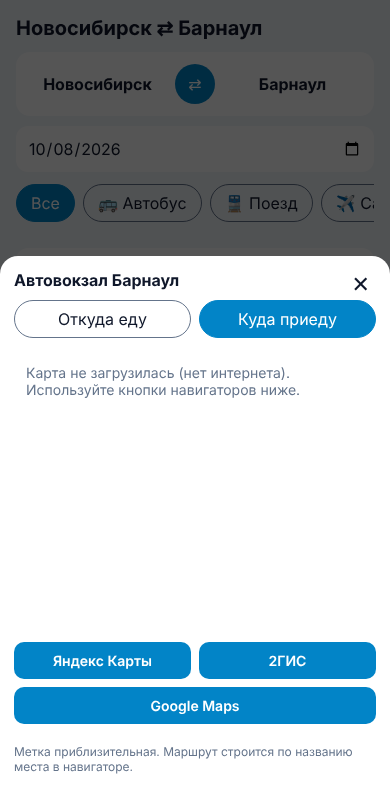
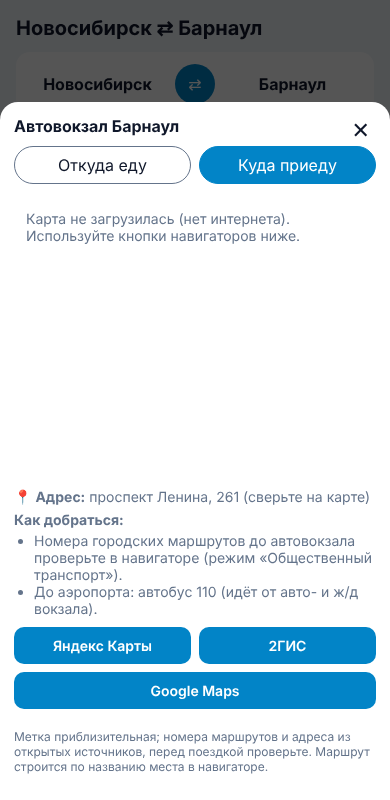
Add station addresses and how-to-get-there info
Claude-Session: https://claude.ai/code/session_01G9pZAVZfw48ruNeXWrn9Gy

diff --git a/app/standalone.html b/app/standalone.html
@@ -42,7 +42,7 @@ input[type=date],select{width:100%;margin-top:10px;padding:12px;border-radius:12
 </main>
 <div id="modal"><div id="sheet"><button class="x" id="close" aria-label="Закрыть">✕</button><b id="mt"></b>
 <div class="sw" style="margin-top:10px"><button class="chip on" id="pa">Откуда еду</button><button class="chip" id="pb">Куда приеду</button></div>
-<div id="map"></div><div class="nav" id="nav"></div><p class="note" id="mn">Метка приблизительная. Маршрут строится по названию места в навигаторе.</p></div></div>
+<div id="map"></div><div id="info" class="mut" style="margin:0 0 10px"></div><div class="nav" id="nav"></div><p class="note" id="mn">Метка приблизительная; номера маршрутов и адреса из открытых источников, перед поездкой проверьте. Маршрут строится по названию места в навигаторе.</p></div></div>
 <script src="https://cdnjs.cloudflare.com/ajax/libs/leaflet/1.9.4/leaflet.min.js"></script>
 <script>// ПРИМЕРНЫЕ данные расписания (прототип). Время, цены и остановки нужно заменить реальными.
 // dir: "nsk-brn" = Новосибирск → Барнаул, "brn-nsk" = обратно.
@@ -84,14 +84,14 @@ window.BUY = {
 
 // Места посадки/высадки: координаты ПРИБЛИЗИТЕЛЬНЫЕ (для метки на карте), поиск маршрута идёт по названию.
 window.PLACES = {
-  bus:  {nsk:{name:"Автовокзал «Новосибирск-Главный»",q:"Автовокзал Новосибирск-Главный",ll:[55.0415,82.9080]},
-         brn:{name:"Автовокзал Барнаул",q:"Автовокзал Барнаул",ll:[53.3405,83.7745]}},
-  train:{nsk:{name:"Вокзал Новосибирск-Главный",q:"Железнодорожный вокзал Новосибирск-Главный",ll:[55.0410,82.9053]},
-         brn:{name:"Ж/д вокзал Барнаул",q:"Железнодорожный вокзал Барнаул",ll:[53.3378,83.7864]}},
-  plane:{nsk:{name:"Аэропорт Толмачёво (OVB)",q:"Аэропорт Толмачёво",ll:[55.0126,82.6507]},
-         brn:{name:"Аэропорт Барнаул им. Г. Титова (BAX)",q:"Аэропорт Барнаул",ll:[53.3638,83.5385]}},
-  ride: {nsk:{name:"Центр Новосибирска (точное место — с водителем)",q:"Новосибирск центр",ll:[55.0302,82.9204]},
-         brn:{name:"Центр Барнаула (точное место — с водителем)",q:"Барнаул центр",ll:[53.3474,83.7784]}}
+  bus:  {nsk:{name:"Автовокзал «Новосибирск-Главный»",addr:"Красный проспект, 4 (адрес по справочнику, сверьте на карте)",how:["Рядом с ж/д вокзалом Новосибирск-Главный.", "До аэропорта Толмачёво: автобус 111Э, в пути около часа."],q:"Автовокзал Новосибирск-Главный",ll:[55.0415,82.9080]},
+         brn:{name:"Автовокзал Барнаул",addr:"проспект Ленина, 261 (сверьте на карте)",how:["Номера городских маршрутов до автовокзала проверьте в навигаторе (режим «Общественный транспорт»).", "До аэропорта: автобус 110 (идёт от авто- и ж/д вокзала)."],q:"Автовокзал Барнаул",ll:[53.3405,83.7745]}},
+  train:{nsk:{name:"Вокзал Новосибирск-Главный",addr:"ул. Дмитрия Шамшурина, 43",how:["До аэропорта Толмачёво: автобус 111Э (40–50 мин), маршрутка 312 или электричка до станции Обь + бесплатный трансфер."],q:"Железнодорожный вокзал Новосибирск-Главный",ll:[55.0410,82.9053]},
+         brn:{name:"Ж/д вокзал Барнаул",addr:"район пл. Победы / Привокзальной ул. (точный адрес сверьте на карте)",how:["Номера городских маршрутов проверьте в навигаторе (режим «Общественный транспорт»).", "До аэропорта: автобус 110."],q:"Железнодорожный вокзал Барнаул",ll:[53.3378,83.7864]}},
+  plane:{nsk:{name:"Аэропорт Толмачёво (OVB)",addr:"Новосибирск, Толмачёво, ~20 км к западу от центра",how:["В город: автобус 111Э до автовокзала и ж/д вокзала, маршрутка 312, автобус 112 от «Меги», электричка до ст. Обь + трансфер.", "В пути 40–60 мин, в пробки дольше. Справочная: 216-99-99."],q:"Аэропорт Толмачёво",ll:[55.0126,82.6507]},
+         brn:{name:"Аэропорт Барнаул им. Г. Титова (BAX)",addr:"~17 км к западу от центра Барнаула",how:["В город: автобус 110 (до автовокзала и ж/д вокзала) или маршрутка 144.", "Остановка у выхода из терминала."],q:"Аэропорт Барнаул",ll:[53.3638,83.5385]}},
+  ride: {nsk:{name:"Центр Новосибирска (точное место — с водителем)",addr:"Точное место встречи согласуйте с водителем",how:[],q:"Новосибирск центр",ll:[55.0302,82.9204]},
+         brn:{name:"Центр Барнаула (точное место — с водителем)",addr:"Точное место встречи согласуйте с водителем",how:[],q:"Барнаул центр",ll:[53.3474,83.7784]}}
 };
 </script>
 <script>
@@ -121,6 +121,7 @@ function showPlace(end){
   const pl=place(cur,end);$("pa").classList.toggle("on",!end);$("pb").classList.toggle("on",end);
   $("mt").textContent=pl.name;const q=encodeURIComponent(pl.q+(pl.q.includes("Новосиб")||pl.q.includes("Барнаул")?"":""));
   $("nav").innerHTML=`<a target="_blank" rel="noopener" href="https://yandex.ru/maps/?mode=routes&rtt=auto&rtext=~${q}">Яндекс Карты</a><a target="_blank" rel="noopener" href="https://2gis.ru/search/${q}">2ГИС</a><a target="_blank" rel="noopener" href="https://www.google.com/maps/dir/?api=1&destination=${q}">Google Maps</a>`;
+  $("info").innerHTML=`<div>📍 <b>Адрес:</b> ${pl.addr}</div>`+(pl.how.length?`<div style="margin-top:6px"><b>Как добраться:</b></div><ul style="margin:4px 0 0;padding-left:20px">${pl.how.map(x=>`<li>${x}</li>`).join("")}</ul>`:"");
   if(window.L){
     if(!map){map=L.map("map");L.tileLayer("https://tile.openstreetmap.org/{z}/{x}/{y}.png",{maxZoom:19,attribution:"© OpenStreetMap"}).addTo(map)}
     if(marker)marker.remove();marker=L.marker(pl.ll).addTo(map).bindPopup(pl.name).openPopup();map.setView(pl.ll,15);setTimeout(()=>map.invalidateSize(),50);

diff --git a/app/data.js b/app/data.js
@@ -38,12 +38,12 @@ window.BUY = {
 
 // Места посадки/высадки: координаты ПРИБЛИЗИТЕЛЬНЫЕ (для метки на карте), поиск маршрута идёт по названию.
 window.PLACES = {
-  bus:  {nsk:{name:"Автовокзал «Новосибирск-Главный»",q:"Автовокзал Новосибирск-Главный",ll:[55.0415,82.9080]},
-         brn:{name:"Автовокзал Барнаул",q:"Автовокзал Барнаул",ll:[53.3405,83.7745]}},
-  train:{nsk:{name:"Вокзал Новосибирск-Главный",q:"Железнодорожный вокзал Новосибирск-Главный",ll:[55.0410,82.9053]},
-         brn:{name:"Ж/д вокзал Барнаул",q:"Железнодорожный вокзал Барнаул",ll:[53.3378,83.7864]}},
-  plane:{nsk:{name:"Аэропорт Толмачёво (OVB)",q:"Аэропорт Толмачёво",ll:[55.0126,82.6507]},
-         brn:{name:"Аэропорт Барнаул им. Г. Титова (BAX)",q:"Аэропорт Барнаул",ll:[53.3638,83.5385]}},
-  ride: {nsk:{name:"Центр Новосибирска (точное место — с водителем)",q:"Новосибирск центр",ll:[55.0302,82.9204]},
-         brn:{name:"Центр Барнаула (точное место — с водителем)",q:"Барнаул центр",ll:[53.3474,83.7784]}}
+  bus:  {nsk:{name:"Автовокзал «Новосибирск-Главный»",addr:"Красный проспект, 4 (адрес по справочнику, сверьте на карте)",how:["Рядом с ж/д вокзалом Новосибирск-Главный.", "До аэропорта Толмачёво: автобус 111Э, в пути около часа."],q:"Автовокзал Новосибирск-Главный",ll:[55.0415,82.9080]},
+         brn:{name:"Автовокзал Барнаул",addr:"проспект Ленина, 261 (сверьте на карте)",how:["Номера городских маршрутов до автовокзала проверьте в навигаторе (режим «Общественный транспорт»).", "До аэропорта: автобус 110 (идёт от авто- и ж/д вокзала)."],q:"Автовокзал Барнаул",ll:[53.3405,83.7745]}},
+  train:{nsk:{name:"Вокзал Новосибирск-Главный",addr:"ул. Дмитрия Шамшурина, 43",how:["До аэропорта Толмачёво: автобус 111Э (40–50 мин), маршрутка 312 или электричка до станции Обь + бесплатный трансфер."],q:"Железнодорожный вокзал Новосибирск-Главный",ll:[55.0410,82.9053]},
+         brn:{name:"Ж/д вокзал Барнаул",addr:"район пл. Победы / Привокзальной ул. (точный адрес сверьте на карте)",how:["Номера городских маршрутов проверьте в навигаторе (режим «Общественный транспорт»).", "До аэропорта: автобус 110."],q:"Железнодорожный вокзал Барнаул",ll:[53.3378,83.7864]}},
+  plane:{nsk:{name:"Аэропорт Толмачёво (OVB)",addr:"Новосибирск, Толмачёво, ~20 км к западу от центра",how:["В город: автобус 111Э до автовокзала и ж/д вокзала, маршрутка 312, автобус 112 от «Меги», электричка до ст. Обь + трансфер.", "В пути 40–60 мин, в пробки дольше. Справочная: 216-99-99."],q:"Аэропорт Толмачёво",ll:[55.0126,82.6507]},
+         brn:{name:"Аэропорт Барнаул им. Г. Титова (BAX)",addr:"~17 км к западу от центра Барнаула",how:["В город: автобус 110 (до автовокзала и ж/д вокзала) или маршрутка 144.", "Остановка у выхода из терминала."],q:"Аэропорт Барнаул",ll:[53.3638,83.5385]}},
+  ride: {nsk:{name:"Центр Новосибирска (точное место — с водителем)",addr:"Точное место встречи согласуйте с водителем",how:[],q:"Новосибирск центр",ll:[55.0302,82.9204]},
+         brn:{name:"Центр Барнаула (точное место — с водителем)",addr:"Точное место встречи согласуйте с водителем",how:[],q:"Барнаул центр",ll:[53.3474,83.7784]}}
 };

diff --git a/app/index.html b/app/index.html
@@ -42,7 +42,7 @@ input[type=date],select{width:100%;margin-top:10px;padding:12px;border-radius:12
 </main>
 <div id="modal"><div id="sheet"><button class="x" id="close" aria-label="Закрыть">✕</button><b id="mt"></b>
 <div class="sw" style="margin-top:10px"><button class="chip on" id="pa">Откуда еду</button><button class="chip" id="pb">Куда приеду</button></div>
-<div id="map"></div><div class="nav" id="nav"></div><p class="note" id="mn">Метка приблизительная. Маршрут строится по названию места в навигаторе.</p></div></div>
+<div id="map"></div><div id="info" class="mut" style="margin:0 0 10px"></div><div class="nav" id="nav"></div><p class="note" id="mn">Метка приблизительная; номера маршрутов и адреса из открытых источников, перед поездкой проверьте. Маршрут строится по названию места в навигаторе.</p></div></div>
 <script src="https://cdnjs.cloudflare.com/ajax/libs/leaflet/1.9.4/leaflet.min.js"></script>
 <script src="data.js"></script>
 <script>
@@ -72,6 +72,7 @@ function showPlace(end){
   const pl=place(cur,end);$("pa").classList.toggle("on",!end);$("pb").classList.toggle("on",end);
   $("mt").textContent=pl.name;const q=encodeURIComponent(pl.q+(pl.q.includes("Новосиб")||pl.q.includes("Барнаул")?"":""));
   $("nav").innerHTML=`<a target="_blank" rel="noopener" href="https://yandex.ru/maps/?mode=routes&rtt=auto&rtext=~${q}">Яндекс Карты</a><a target="_blank" rel="noopener" href="https://2gis.ru/search/${q}">2ГИС</a><a target="_blank" rel="noopener" href="https://www.google.com/maps/dir/?api=1&destination=${q}">Google Maps</a>`;
+  $("info").innerHTML=`<div>📍 <b>Адрес:</b> ${pl.addr}</div>`+(pl.how.length?`<div style="margin-top:6px"><b>Как добраться:</b></div><ul style="margin:4px 0 0;padding-left:20px">${pl.how.map(x=>`<li>${x}</li>`).join("")}</ul>`:"");
   if(window.L){
     if(!map){map=L.map("map");L.tileLayer("https://tile.openstreetmap.org/{z}/{x}/{y}.png",{maxZoom:19,attribution:"© OpenStreetMap"}).addTo(map)}
     if(marker)marker.remove();marker=L.marker(pl.ll).addTo(map).bindPopup(pl.name).openPopup();map.setView(pl.ll,15);setTimeout(()=>map.invalidateSize(),50);
